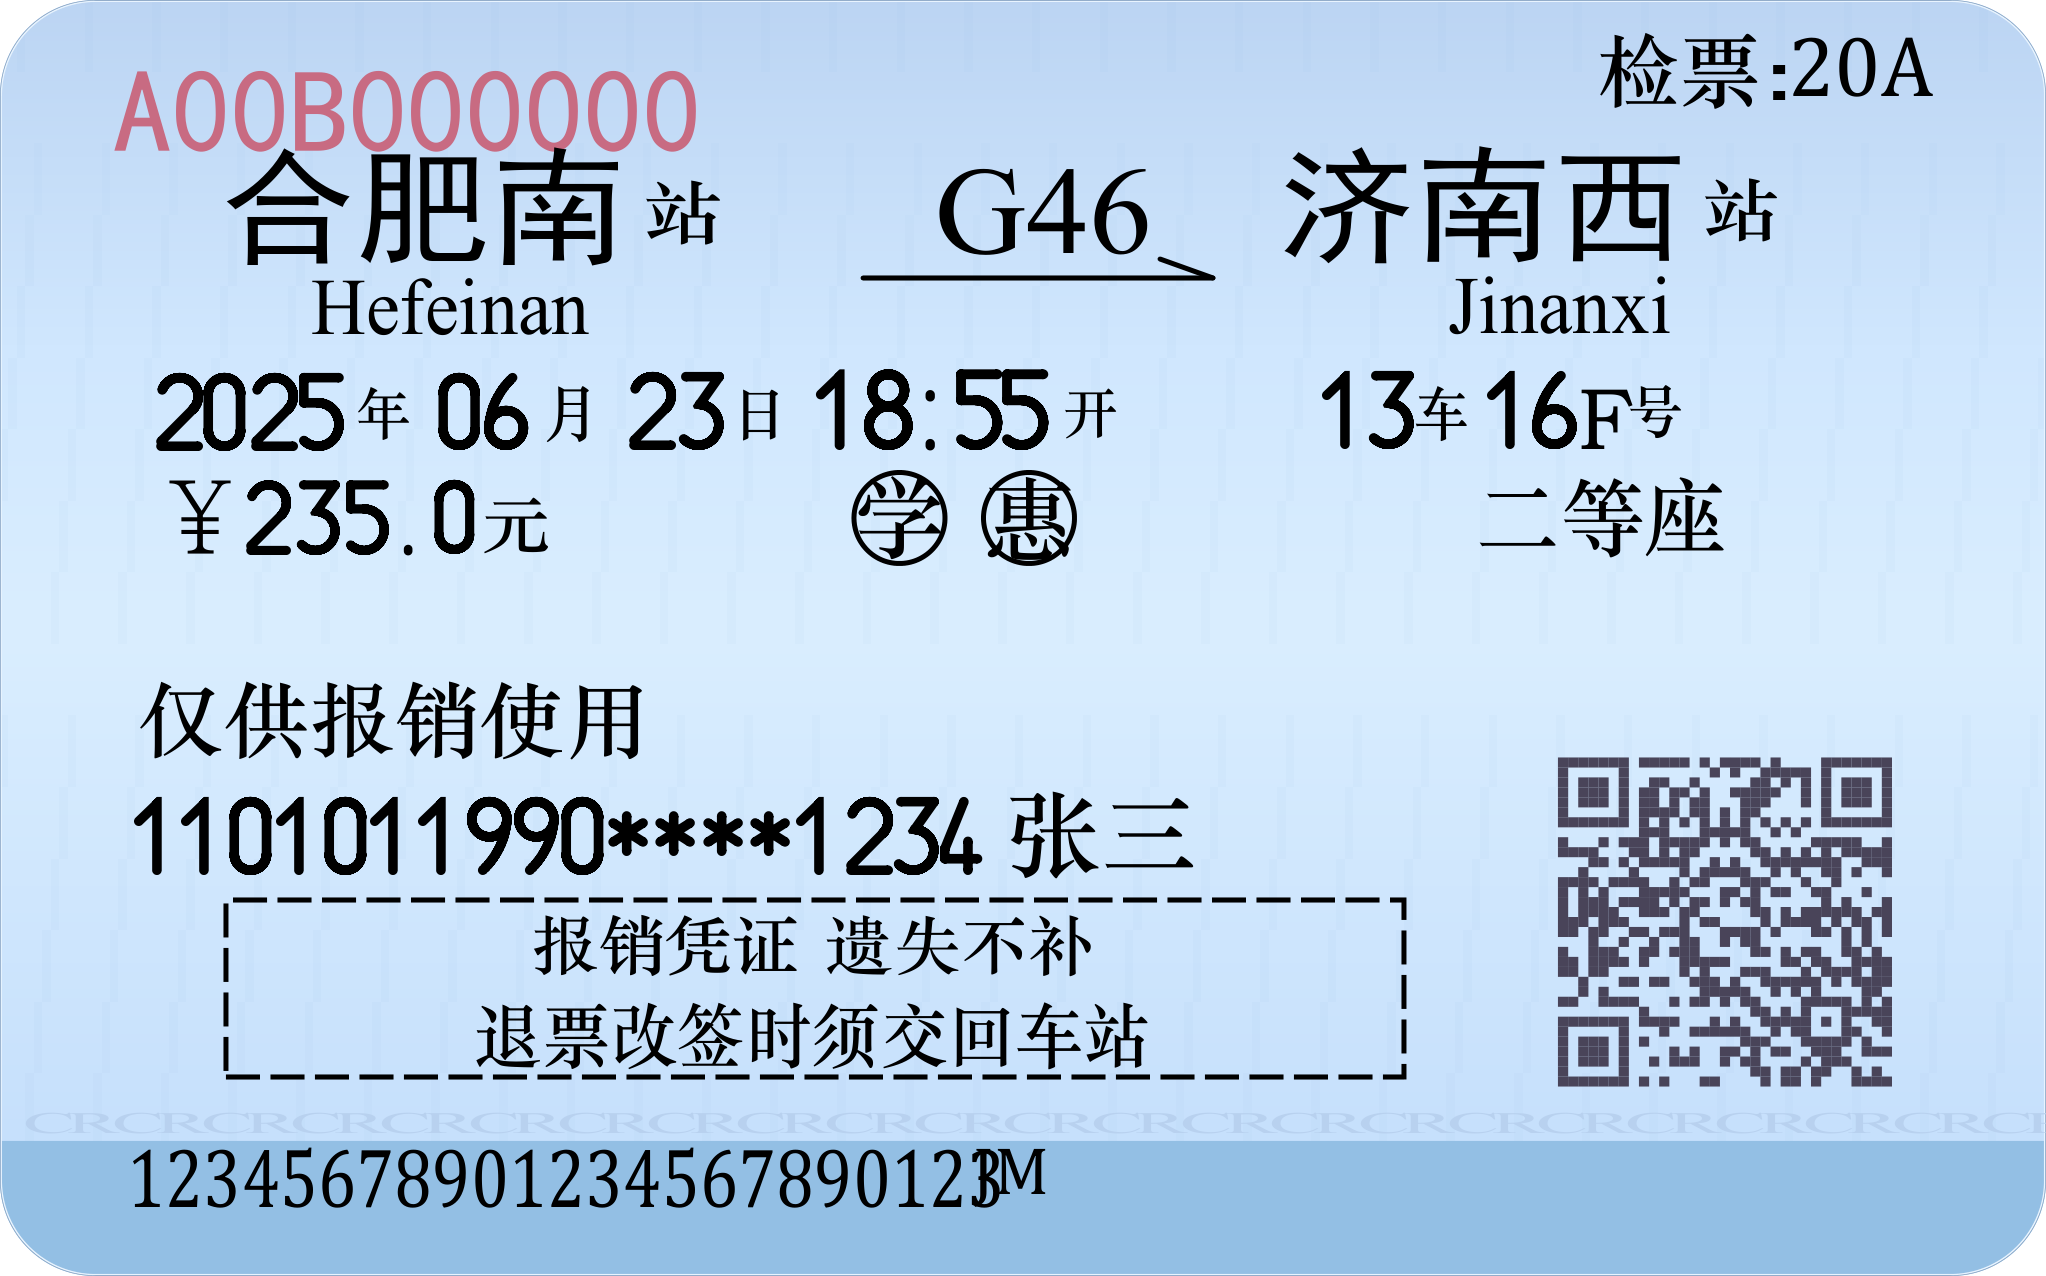
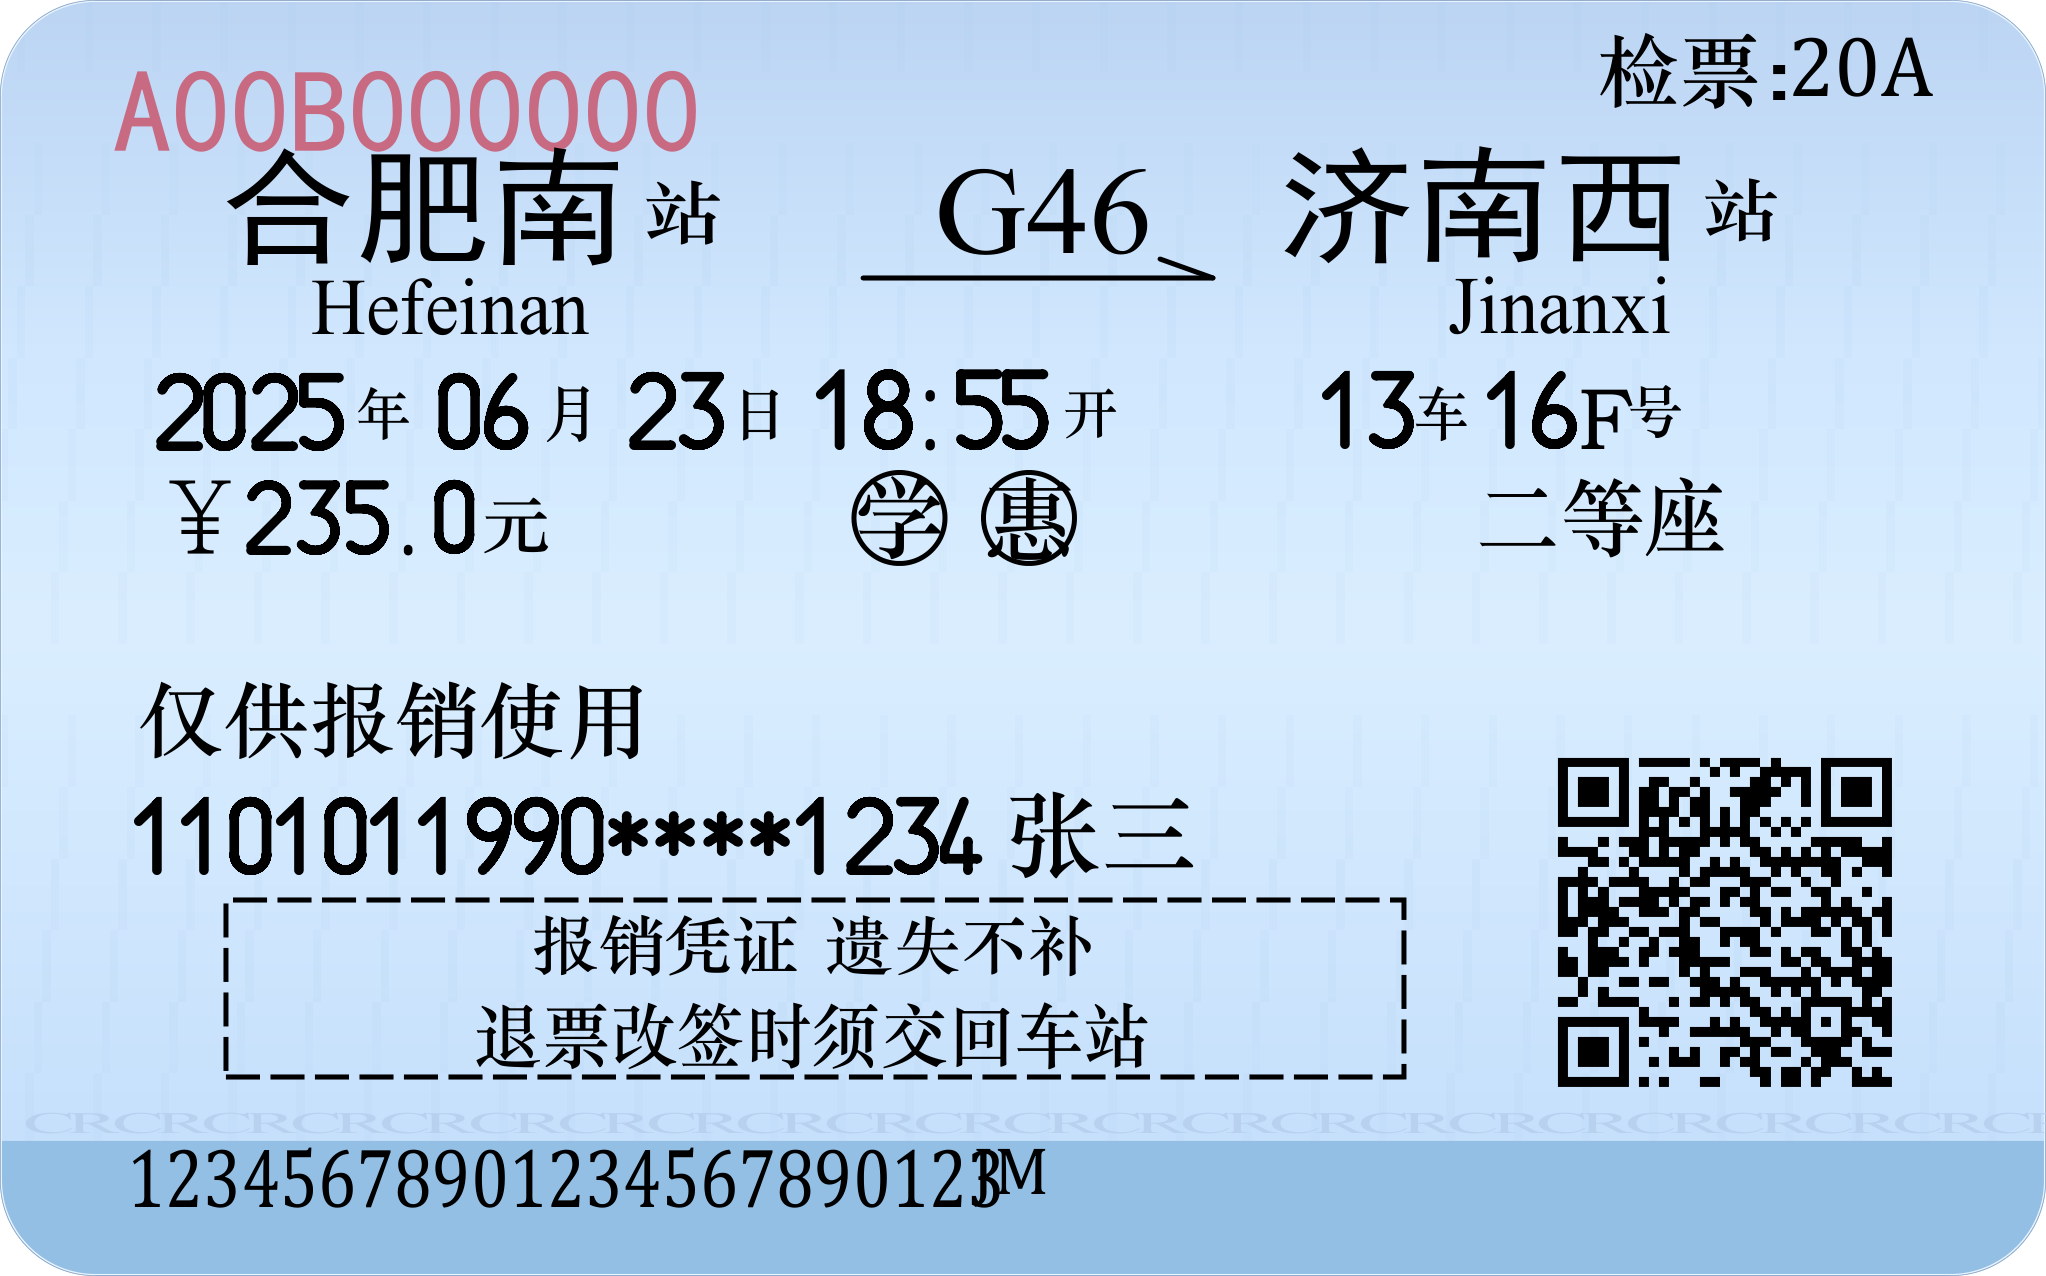
优惠标记只画发票上真有的(不再给只有'学'的票补'惠'); 二维码改纯黑并消除格点边框(画并集轮廓)

Changed region(s): [[0.739, 0.5807, 0.9238, 0.8558]]

diff --git a/make_ticket.py b/make_ticket.py
@@ -94,7 +94,7 @@ REGISTERED = {}
 # Color(78 / 255, 71 / 255, 87 / 255)。
 INK = Color(0.0, 0.0, 0.0)
 RED = Color(201 / 255, 107 / 255, 130 / 255)
-QR_COLOR = Color(74 / 255, 69 / 255, 90 / 255)
+QR_COLOR = Color(0.0, 0.0, 0.0)          # 二维码也纯黑(用户要求)
 BAND = Color(148 / 255, 192 / 255, 229 / 255)
 BG_STOPS = [
     (0.00, Color(188 / 255, 213 / 255, 243 / 255)),
@@ -265,6 +265,10 @@ class Ticket:
         self.price = float(kw.get("price", 235.0))
         self.seat_class = kw.get("seat_class", "二等座")
         self.discount = bool(kw.get("discount", True))
+        # 优惠标记圆圈: 默认两个都画(参考票面就是"学""惠"); 从发票来时只画发票上真有的,
+        # 见 parse_invoice 的 discount_marks。
+        _mk = kw.get("discount_marks")
+        self.discount_marks = _mk if _mk is not None else ("学惠" if self.discount else "")
         self.passenger = kw.get("passenger", "张三")
         self.id_no = kw.get("id_no", "1101011990****1234")
         self.serial = kw.get("serial", "12345678901234567890123")
@@ -299,6 +303,7 @@ class Ticket:
             price=d.get("price") if d.get("price") is not None else 0.0,
             seat_class=d.get("seat_class") or "二等座",
             discount=bool(d.get("discount")),
+            discount_marks=d.get("discount_marks"),
             passenger=d.get("passenger") or "张三",
             id_no=d.get("id_no") or "1101011990****1234",
             serial=d.get("eticket_no") or "",
@@ -419,7 +424,13 @@ def parse_invoice(path):
             d["seat_class"] = mm.group(0)
             break
 
-    d["discount"] = any(w == "学" for (*_r, w) in words)
+    # 优惠标记(学/惠): 只画发票上真印着的那个 —— 只有"学"的发票不能凭空补一个"惠"。
+    # 取"整词只由学/惠组成"的词 (发票上这两个字常各自成项, 也可能被并成一个词"学惠"),
+    # 这样 "学生票" 那种含"学"的长词不会被误判。
+    _mk = [w for (*_r, w) in words if w and all(c in "学惠" for c in w)]
+    d["discount_marks"] = "".join(ch for ch in ("学", "惠")
+                                  if any(ch in w for w in _mk))
+    d["discount"] = bool(d["discount_marks"])
 
     m = re.search(r"\d{6,}\*+\d{2,4}", flat)
     d["id_no"] = m.group(0) if m else None
@@ -642,6 +653,57 @@ def draw_dashed_box(c):
     c.restoreState()
 
 
+def qr_outline_loops(matrix):
+    """二维码暗格并集的**外轮廓闭环** (格点坐标 (i=行, j=列))。
+
+    为什么不用"逐格画小方块"或"合并成一行一行的矩形": 那两种写法都会让相邻矩形
+    **共用一条边**, 光栅化时公共边被两侧各扫一次, 留下一道浅色缝 —— 就是用户看到的
+    "每个格点都有边框"。只描并集轮廓, 内部一条边都没有, 缝根本不会产生, 而且格点
+    尺寸/黑色占比与标定值完全一致(不用靠外扩去糊缝)。
+
+    每个角点的进出边数一定是偶数(0/2/4), 4 的那处是两格仅斜角相接: 两条环路在那里
+    共用一点, 填色按奇偶规则各自数一次, 所以随便怎么配都对 (都成闭合环)。
+    矩阵必须是方阵 (二维码矩阵本来就是 n×n)。校验脚本: tools/check_qr_outline.py。
+    """
+    n = len(matrix)
+    dark = [[bool(v) for v in row] for row in matrix]
+    out = {}
+
+    def add(a, b):
+        out.setdefault(a, []).append(b)
+
+    for r in range(n):
+        for cc in range(n):
+            if not dark[r][cc]:
+                continue
+            if r == 0 or not dark[r - 1][cc]:            # 上边: 左->右
+                add((r, cc), (r, cc + 1))
+            if cc == n - 1 or not dark[r][cc + 1]:       # 右边: 上->下
+                add((r, cc + 1), (r + 1, cc + 1))
+            if r == n - 1 or not dark[r + 1][cc]:        # 下边: 右->左
+                add((r + 1, cc + 1), (r + 1, cc))
+            if cc == 0 or not dark[r][cc - 1]:           # 左边: 下->上
+                add((r + 1, cc), (r, cc))
+    loops = []
+    while out:
+        start = next(iter(out))
+        loop, cur = [start], start
+        while True:
+            nxts = out.get(cur)
+            if not nxts:
+                break
+            nxt = nxts.pop()
+            if not nxts:
+                del out[cur]
+            loop.append(nxt)
+            cur = nxt
+            if cur == start:
+                break
+        if len(loop) > 3:
+            loops.append(loop)
+    return loops
+
+
 def draw_qr(c, data):
     if qrcode is None:
         raise RuntimeError("缺少 qrcode 库, 请先 pip install qrcode")
@@ -657,19 +719,29 @@ def draw_qr(c, data):
     matrix = qr.get_matrix()
     n = len(matrix)
     mx, my = mw * (version * 4 + 17) / n, mh * (version * 4 + 17) / n
+    # 格点边界吸附到整数页面像素: 模块宽 10.121px / 高 9.97px 都不是整数, 边界落在
+    # 半像素上就会处处反锯齿。吸附后每个模块宽 10 或 11px(肉眼无差别, 照样扫),
+    # 边界都落在像素线上。
+    cxs = [int(round(x0 + k * mx)) for k in range(n + 1)]
+    cys = [int(round(y0 + k * my)) for k in range(n + 1)]
     c.saveState()
     c.setFillColor(QR_COLOR)
-    for r, row in enumerate(matrix):
-        for col, dark in enumerate(row):
-            if dark:
-                c.rect(X(x0 + col * mx), Y(y0 + (r + 1) * my), mx * PX, my * PX, stroke=0, fill=1)
+    p = c.beginPath()
+    for loop in qr_outline_loops(matrix):
+        i, j = loop[0]
+        p.moveTo(X(cxs[j]), Y(cys[i]))
+        for (i, j) in loop[1:]:
+            p.lineTo(X(cxs[j]), Y(cys[i]))
+        p.close()
+    c.drawPath(p, stroke=0, fill=1)
     c.restoreState()
 
 
 def draw_circles(c, t: Ticket):
-    if not t.discount:
-        return
+    marks = getattr(t, "discount_marks", "学惠" if t.discount else "")
     for cx, cy, r, ch in CIRCLES:
+        if ch not in marks:            # 发票上没印的标记不补画
+            continue
         c.saveState()
         c.setStrokeColor(INK)
         c.setLineWidth(CIRCLE_W * PX)
